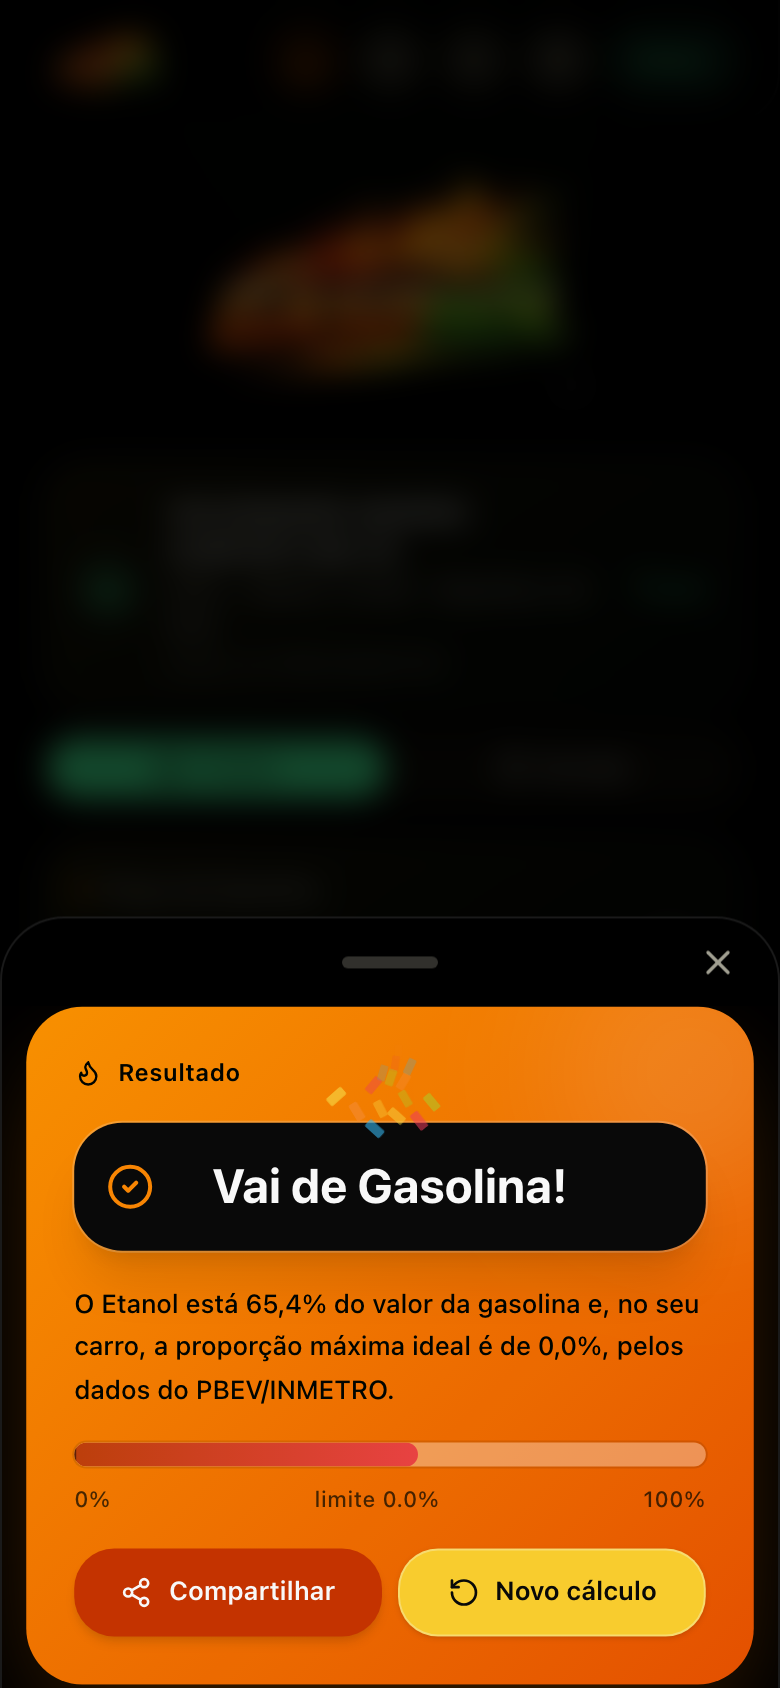
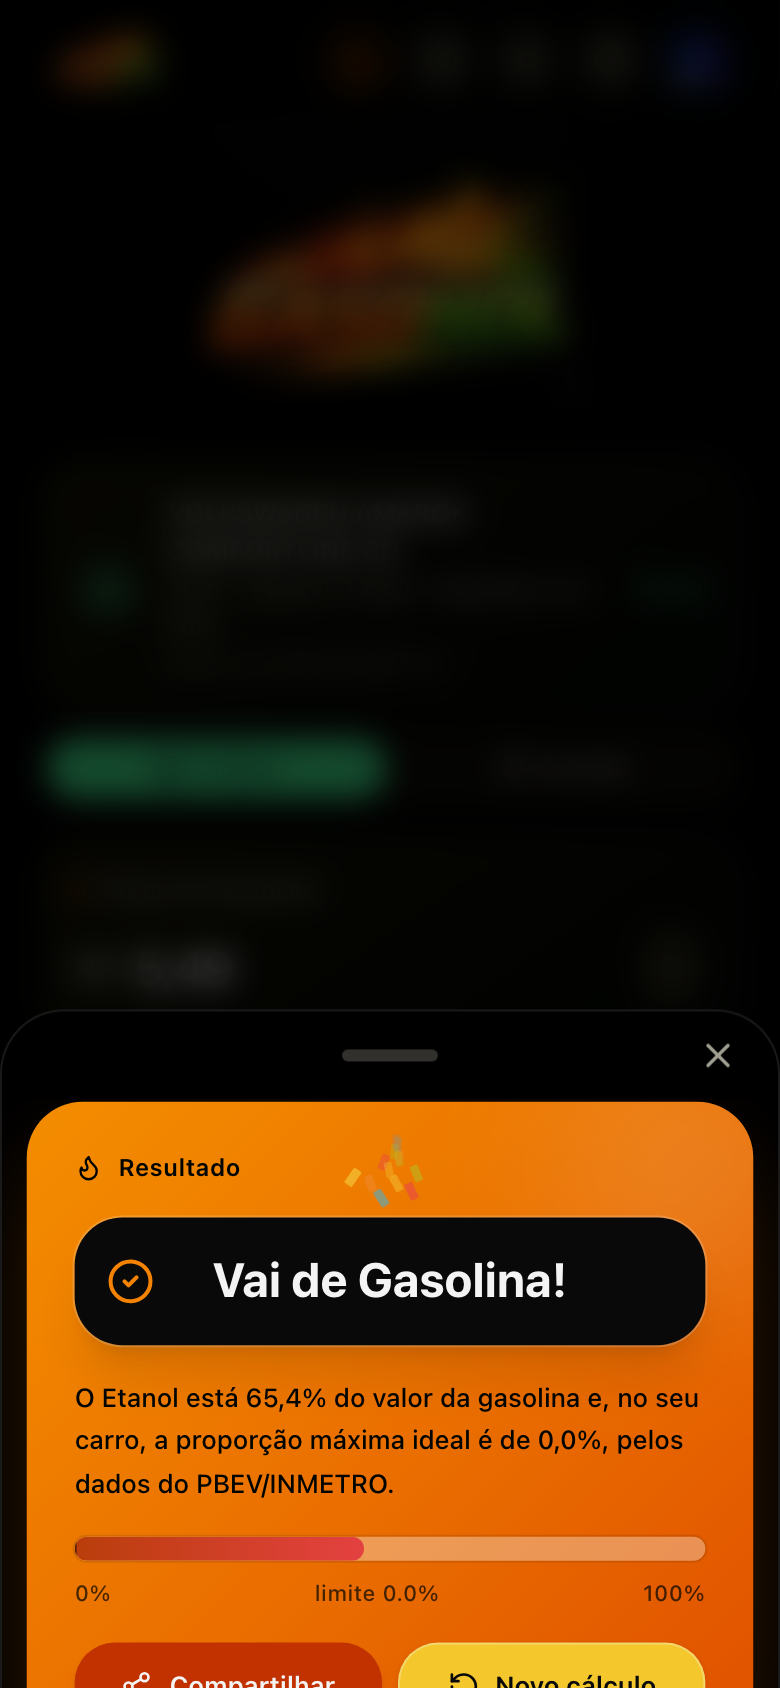
feat: captura logada em todos os apps + sem overlays (gasonol premium, aieat, convertendo)

Changed region(s): [[0.0308, 0.5545, 0.9846, 1.0], [0.9846, 0.5853, 1.0, 0.6161]]

diff --git a/SETUP.md b/SETUP.md
@@ -210,8 +210,10 @@ npm run capturar            # todos os apps
 npm run capturar -- --app gasonol
 ```
 
-O GASONOL não pede login e é capturado por um fluxo (seletor → calculadora →
-resultado). Os demais navegam nas rotas internas após autenticar. Se a captura
+Todos os apps autenticam com a mesma conta (`CAPTURAS_EMAIL`/`CAPTURAS_SENHA`),
+para as capturas saírem com o estado real (premium no GASONOL, dados do usuário
+nos demais). O GASONOL é capturado por um fluxo (seletor → calculadora →
+resultado); os demais navegam nas rotas internas após autenticar. Se a captura
 falhar, os cards usam as telas anteriores — publicar nunca quebra por isso.
 
 ---

diff --git a/README.md b/README.md
@@ -83,8 +83,9 @@ npm run cards -- --app gasonol --todos
 
 As telas internas são fotografadas pelo `scripts/capturar.mjs` (Playwright):
 
-- **GASONOL** não exige login: o script percorre o fluxo real (seletor de
-  veículo → calculadora → resultado) e captura os três estados.
+- **GASONOL** entra com a conta (para capturar o estado premium) e percorre o
+  fluxo real (seletor de veículo → calculadora → resultado), capturando os três
+  estados.
 - **Remedin, AI-Eat, Convertendo e Vai dar quanto?** exigem conta: o script
   autentica com `CAPTURAS_EMAIL`/`CAPTURAS_SENHA` e navega nas rotas internas.
 
